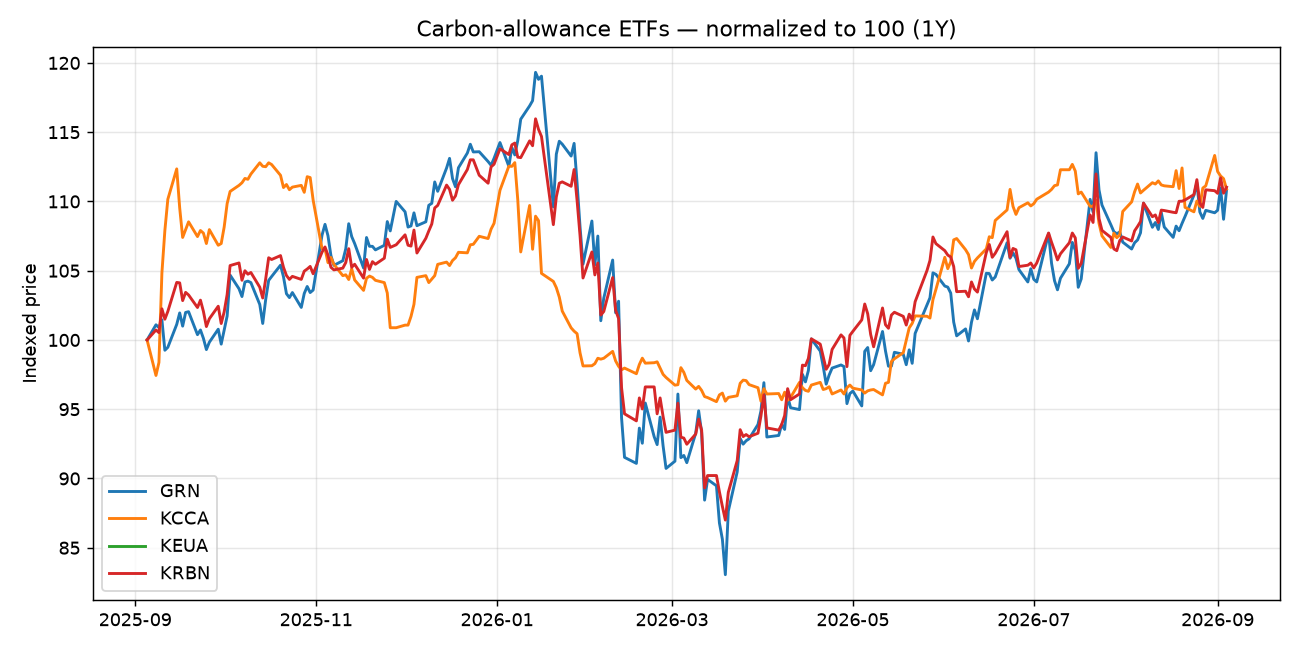
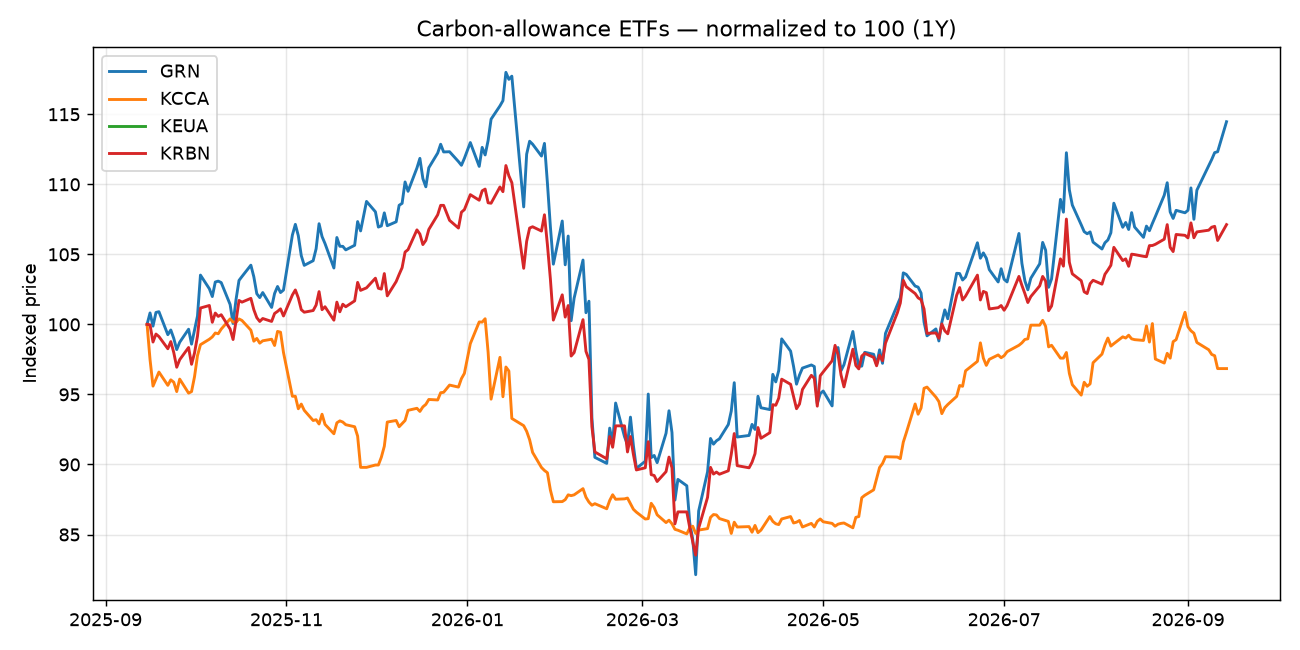
chore: weekly carbon report 2026-09-14 [skip ci]

diff --git a/reports/latest/weekly_report.md b/reports/latest/weekly_report.md
@@ -1,4 +1,4 @@
-# Carbon Market Weekly — 2026-09-07
+# Carbon Market Weekly — 2026-09-14
 
 탄소배출권 시장 주간 브리핑 (EU ETS / 글로벌 / 캘리포니아 CCA 프록시).
 
@@ -8,17 +8,17 @@
 
 | ticker | last | ret_1w_% | ret_1m_% | vol_20d_ann_% | trend_vs_MA50 | signal |
 | --- | --- | --- | --- | --- | --- | --- |
-| GRN | 33.51 | 1.33 | 2.85 | 17.6 | UP | LONG |
-| KCCA | 17.19 | -0.2 | 0.26 | 15.7 | UP | LONG |
+| GRN | 35.01 | 4.46 | 6.01 | 17.3 | UP | LONG |
+| KCCA | 16.87 | -1.89 | -2.15 | 16.0 | DOWN | SHORT/AVOID |
 | KEUA | 22.87 | 0.0 | 0.0 | 0.0 | n/a | STALE-DATA |
-| KRBN | 34.88 | 0.17 | 2.29 | 11.1 | UP | LONG |
+| KRBN | 35.05 | 0.49 | 2.01 | 11.2 | UP | LONG |
 
 ## Cross-market — EU vs California (relative value)
 
-- KEUA/KCCA 비율 1.33, 60일 z-score -0.48 → 중립 범위
+- KEUA/KCCA 비율 1.3557, 60일 z-score 1.08 → EU 상대적 고평가
 
 ## This week (draft)
-- KRBN(글로벌/EU 배출권): LONG — 추세 UP, 1개월 2.29%
+- KRBN(글로벌/EU 배출권): LONG — 추세 UP, 1개월 2.01%
 - (여기에 뉴스/정책 코멘트 2~3줄: EU ETS 정책, MSR, 경매 결과, K-ETS 동향 등)
 
 > Signal 규칙: 50일 이동평균 추세 + 1개월 모멘텀 동조 시 LONG/AVOID, 불일치 시 NEUTRAL.
